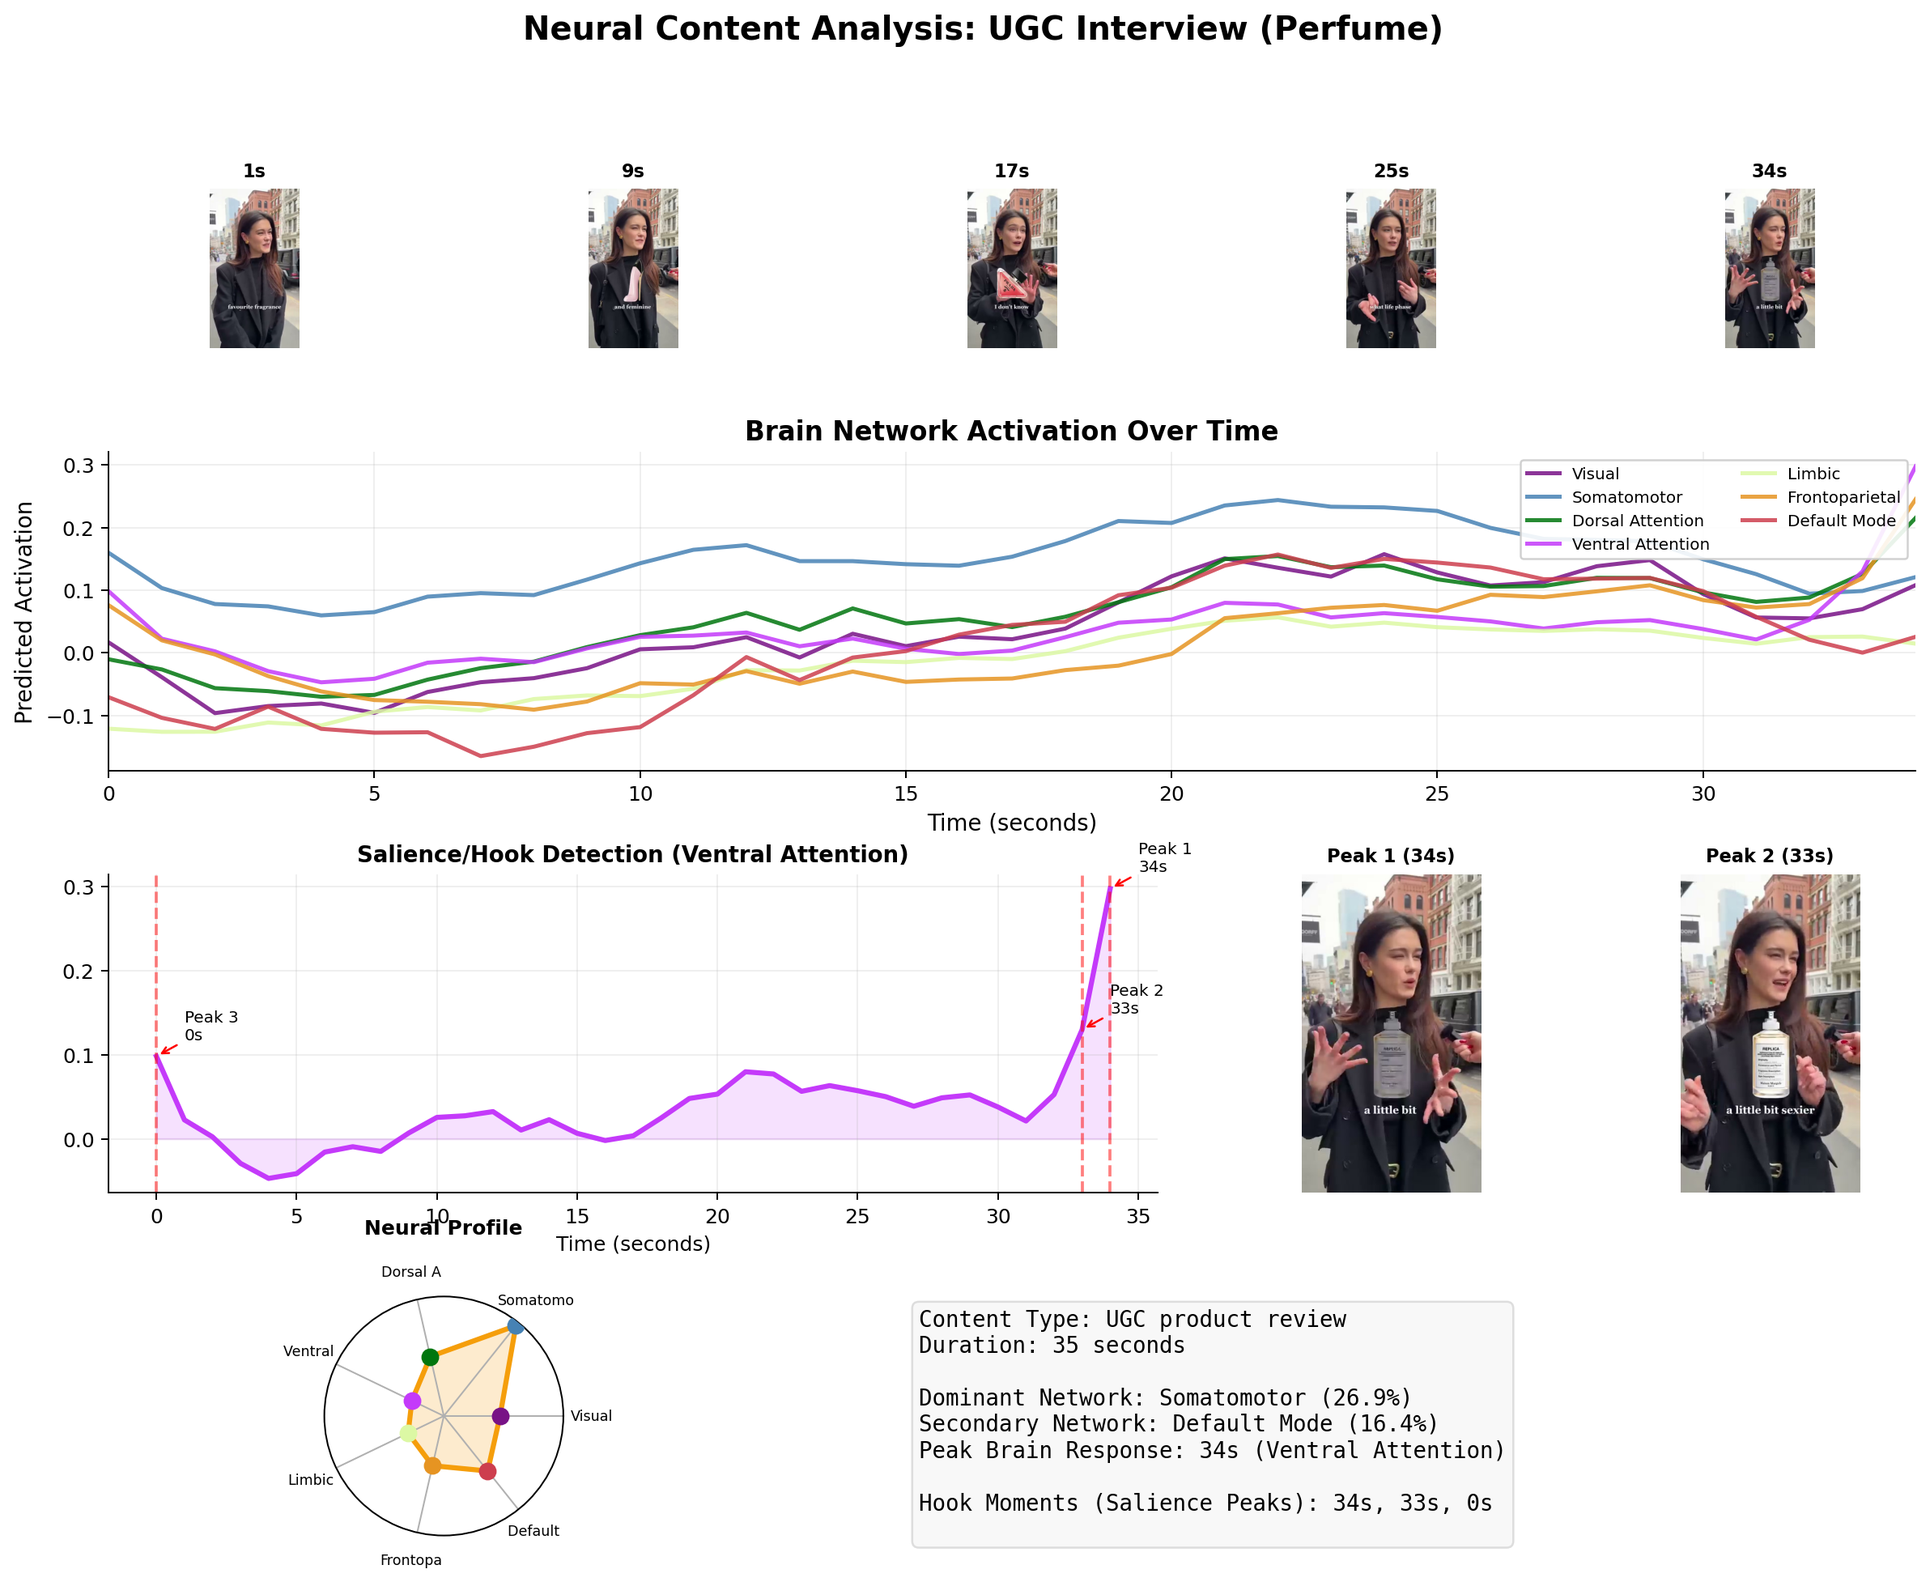
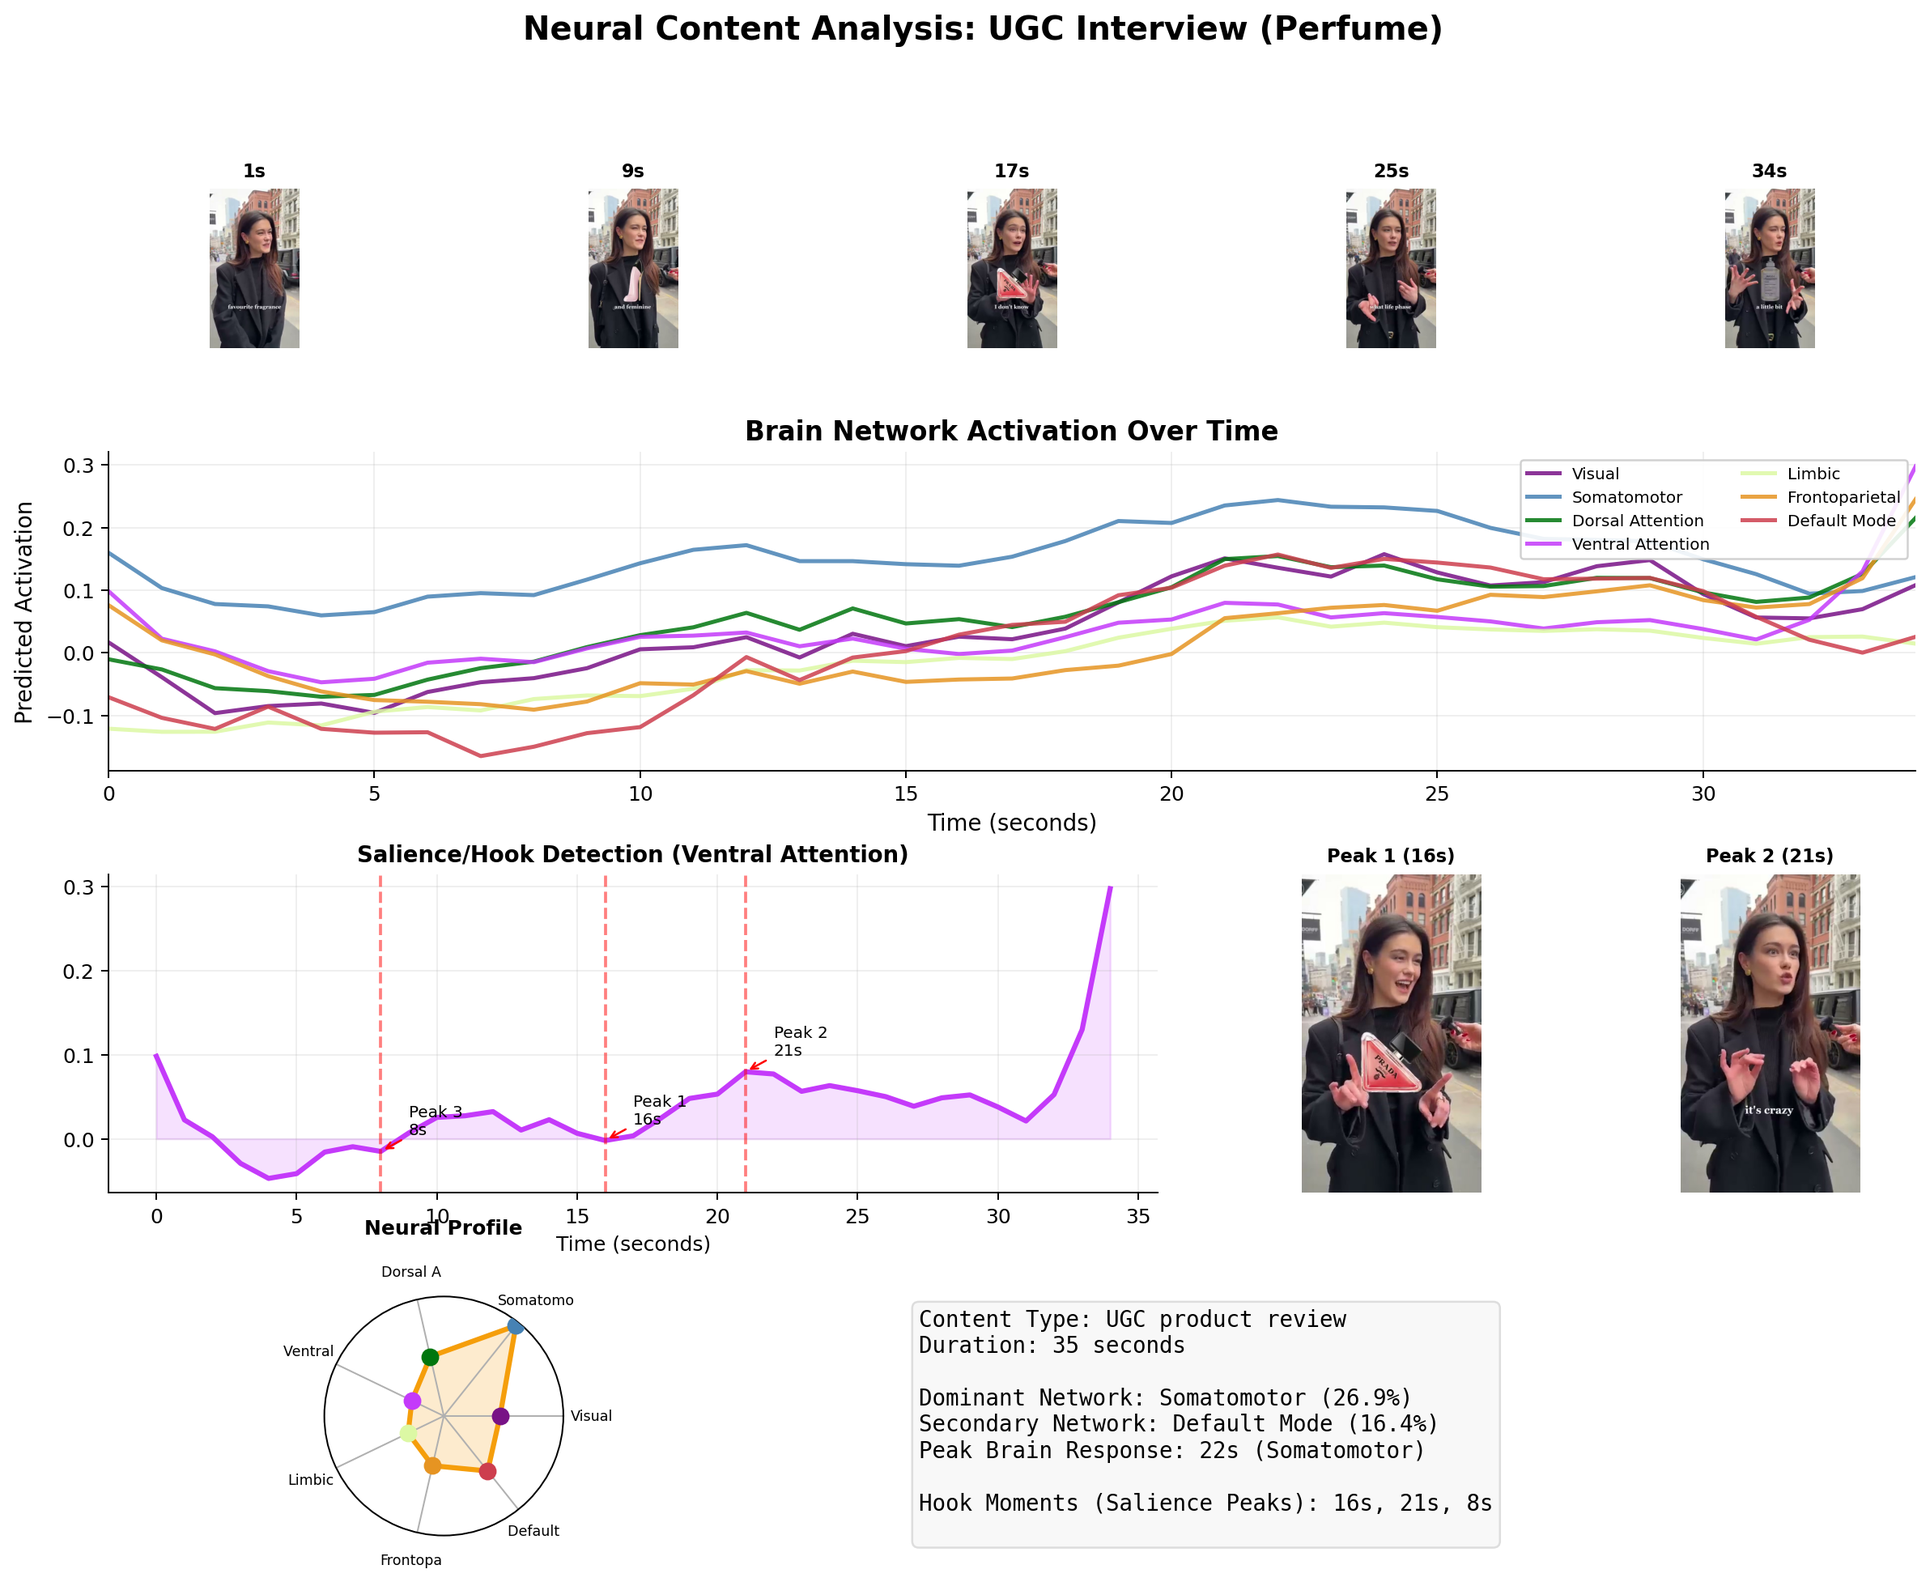
Regenerate figures and update paper with corrected peak timestamps
Validated robust peak detection fix across all 5 videos, regenerated
all figures with detrended peaks, and updated paper narrative/tables
to reflect corrected salience peak values.

diff --git a/paper/neural_content_intelligence.md b/paper/neural_content_intelligence.md
@@ -273,7 +273,7 @@ Full deep-analysis outputs for all five videos are available (Figures 4-6 presen
 *Figure S1: Full NCI analysis of the Elon AI tech news commentary (60s). Similar Somatomotor + Default Mode profile to business education, but with notably elevated Frontoparietal activation (16%), indicating viewers are critically evaluating claims. The mid-video salience peak at 29s suggests a structural break point useful for CTA placement.*
 
 ![Deep analysis of Perfume UGC street interview.](figures/analysis_PerfumeUGCInterview.png)
-*Figure S2: Full NCI analysis of the perfume UGC street interview (35s). Highest Somatomotor activation (27%) of all five videos, reflecting strong embodied/sensory processing. The opening frame triggers a salience peak (0s), confirming the hook works. Elevated Limbic activation (9%) compared to other talking-head content suggests emotional connection to the product.*
+*Figure S2: Full NCI analysis of the perfume UGC street interview (35s). Highest Somatomotor activation (27%) of all five videos, reflecting strong embodied/sensory processing. Salience peaks are front-to-mid loaded (8s, 16s, 21s), indicating early and sustained engagement. Elevated Limbic activation (9%) compared to other talking-head content suggests emotional connection to the product.*
 
 The radar overlay (Figure 2) reveals two distinct clusters. Videos 1-3 (talking-head formats) share a Somatomotor + Default Mode dominant profile, reflecting speech processing and narrative comprehension. Videos 4-5 (visual formats) share a Visual + Dorsal Attention dominant profile, reflecting sustained visual tracking. Within each cluster, meaningful differences emerge: the tech/AI news video adds Frontoparietal control (critical thinking), the UGC perfume review shows elevated Limbic engagement (emotional connection to the product), and the viral ice cutter video shows the highest Ventral Attention of any video (the "satisfying" surprise signature).
 
@@ -293,12 +293,12 @@ The Leila Hormozi video (49 seconds, talking-head format delivering business adv
 | Frontoparietal | 13% | Moderate --- some evaluative processing of the advice |
 | Default Mode | **18%** | **Co-dominant** --- narrative engagement, self-referential processing |
 
-**Salience peaks (hook moments):** 48s, 47s, 45s --- clustered at the end of the video.
+**Salience peaks (hook moments):** 30s, 14s, 19s --- distributed across the video, with the strongest moment at the midpoint.
 
 ![Deep analysis of Leila Hormozi business education video.](figures/analysis_BusinessEdLeilaHarmozi.png)
-*Figure 4: Full NCI analysis of Leila Hormozi business education video (49s). The network time course reveals sustained Somatomotor activation throughout (speech processing), with Default Mode co-activation indicating narrative engagement. Salience peaks cluster at the end, suggesting the closing argument contains the strongest attention-capture moments.*
+*Figure 4: Full NCI analysis of Leila Hormozi business education video (49s). The network time course reveals sustained Somatomotor activation throughout (speech processing), with Default Mode co-activation indicating narrative engagement. Salience peaks are distributed across the video (14s, 19s, 30s), suggesting multiple attention-capture moments throughout the argument rather than a single climactic endpoint.*
 
-**Business insight for talking-head creators:** The Somatomotor dominance reveals that for this content format, *voice quality, delivery cadence, and facial expressions are the primary engagement drivers*, not visual production value. Creators investing in expensive sets and lighting may be optimizing the wrong variable. The low Visual network activation (15%) confirms that viewers are not visually stimulated; they are processing the speaker's delivery and message. The high Default Mode activation (18%) indicates viewers are deeply processing the narrative content, relating the advice to their own situations, consistent with central-route persuasion processing as described by the ELM [55, 65]. For content strategists, this means talking-head content should be optimized for speaker delivery, argument structure, and personal relevance rather than visual complexity. The end-loaded salience peaks suggest that the strongest hook material is in the closing argument; a short-form editor might consider restructuring to lead with that moment.
+**Business insight for talking-head creators:** The Somatomotor dominance reveals that for this content format, *voice quality, delivery cadence, and facial expressions are the primary engagement drivers*, not visual production value. Creators investing in expensive sets and lighting may be optimizing the wrong variable. The low Visual network activation (15%) confirms that viewers are not visually stimulated; they are processing the speaker's delivery and message. The high Default Mode activation (18%) indicates viewers are deeply processing the narrative content, relating the advice to their own situations, consistent with central-route persuasion processing as described by the ELM [55, 65]. For content strategists, this means talking-head content should be optimized for speaker delivery, argument structure, and personal relevance rather than visual complexity. The distributed salience peaks (14s, 19s, 30s) suggest multiple hook moments throughout the argument; a short-form editor could use any of these as an opening hook when restructuring for different platforms.
 
 ### 6.4 Deep Analysis: Product Demonstration (Sanitary Pad)
 
@@ -316,7 +316,7 @@ The product demonstration video (25 seconds, showing a sanitary pad's absorption
 | Frontoparietal | 5% | Very low --- not evaluative; purely demonstrative |
 | Default Mode | 6% | Very low --- no narrative or self-referential processing |
 
-**Salience peaks (hook moments):** 24s, 17s, 21s --- distributed across the demonstration.
+**Salience peaks (hook moments):** 10s, 17s, 7s --- front-loaded, with the strongest moments in the first half of the demonstration.
 
 ![Deep analysis of sanitary pad product demonstration video.](figures/analysis_sanitaryPadProductDemo.png)
 *Figure 5: Full NCI analysis of the product demonstration video (25s). The neural profile is radically different from talking-head content: Visual + Dorsal Attention account for 63% of total activation. The viewer's brain is locked into focused visual tracking of the product demonstration, with minimal narrative, emotional, or evaluative processing. This is pure "show don't tell" engagement.*
@@ -339,12 +339,12 @@ The Japanese ice cutter video (48 seconds, showing the mesmerizing process of ha
 | Frontoparietal | 11% | Low-moderate --- some evaluative engagement |
 | Default Mode | 5% | Very low --- no narrative processing |
 
-**Salience peaks (hook moments):** 21s, 19s, 14s --- clustered in the middle of the video, not the opening.
+**Salience peaks (hook moments):** 21s, 40s, 32s --- distributed across the video, with strong moments in both mid and late sections.
 
 ![Deep analysis of viral Japanese ice cutter satisfying content.](figures/analysis_viralJapaneseIceCutter.png)
-*Figure 6: Full NCI analysis of the viral Japanese ice cutter video (48s). The highest Ventral Attention activation (17%) of any video in the analysis reveals the neural basis of "satisfying" content: repeated surprise/salience peaks that create an addictive watch-through quality. Hook moments cluster in the middle (14-21s), not the opening, suggesting the content builds anticipation rather than front-loading its strongest moments.*
+*Figure 6: Full NCI analysis of the viral Japanese ice cutter video (48s). The highest Ventral Attention activation (17%) of any video in the analysis reveals the neural basis of "satisfying" content: repeated surprise/salience peaks that create an addictive watch-through quality. Hook moments are distributed across the video (21s, 32s, 40s), suggesting the content sustains salience throughout rather than front-loading its strongest moments.*
 
-**Business insight for viral/organic content creators:** The Ventral Attention activation (17%) is the *highest of all five videos* and reveals the neural mechanism behind "satisfying" content's addictive quality. Ventral Attention is the brain's surprise/salience detection system, it fires when something unexpected or particularly salient occurs. The combination of strong Visual processing, sustained Dorsal Attention, and repeated Ventral Attention peaks creates a neurally compelling viewing loop: the viewer is visually engaged, attentionally locked in, and repeatedly surprised. The near-absence of Limbic (2%) and Default Mode (5%) activation is equally revealing, this content does not work through emotional connection or narrative transportation. It is *purely perceptual engagement*. For content strategists, this means "satisfying" content optimization should focus entirely on visual rhythm, timing of reveals, and the frequency and intensity of surprise moments. The mid-video clustering of salience peaks (14-21s) rather than front-loading suggests that this content format builds anticipation, creating an escalating sense of satisfaction. A creator editing this type of content should ensure the visual payoff moments are properly spaced to maintain the salience-peak rhythm.
+**Business insight for viral/organic content creators:** The Ventral Attention activation (17%) is the *highest of all five videos* and reveals the neural mechanism behind "satisfying" content's addictive quality. Ventral Attention is the brain's surprise/salience detection system, it fires when something unexpected or particularly salient occurs. The combination of strong Visual processing, sustained Dorsal Attention, and repeated Ventral Attention peaks creates a neurally compelling viewing loop: the viewer is visually engaged, attentionally locked in, and repeatedly surprised. The near-absence of Limbic (2%) and Default Mode (5%) activation is equally revealing, this content does not work through emotional connection or narrative transportation. It is *purely perceptual engagement*. For content strategists, this means "satisfying" content optimization should focus entirely on visual rhythm, timing of reveals, and the frequency and intensity of surprise moments. The distributed salience peaks (21s, 32s, 40s) suggest that this content format sustains engagement through well-spaced visual payoff moments, creating an escalating sense of satisfaction. A creator editing this type of content should ensure the visual payoff moments are properly spaced to maintain the salience-peak rhythm.
 
 ### 6.6 Comparative Insights for Content Strategy
 
@@ -352,11 +352,11 @@ Table 2 summarizes the neural profiles and strategic implications of all five vi
 
 | Video | Duration | Dominant Networks | Hook Moments | Optimization Target | Content Strategy |
 |---|---|---|---|---|---|
-| **Leila Hormozi** (Business Ed.) | 49s | Somatomotor 25% + Default Mode 18% | 48s, 47s, 45s (end-loaded) | Speaker delivery, argument structure, personal relevance | Optimize voice, cadence, facial expression; lead with strongest argument |
-| **Elon AI** (Tech News) | 60s | Somatomotor 22% + Default Mode 19% + Frontoparietal 16% | 59s, 58s, 29s (end + mid) | Information density, argument quality, critical engagement | Leverage high Frontoparietal for CTA placement; the 29s mid-video peak suggests a structural break point |
-| **Perfume UGC** (Product Review) | 35s | Somatomotor 27% + Default Mode 16% | 34s, 33s, 0s (end + opening) | Embodied/sensory experience, authentic delivery | Highest Somatomotor = strongest embodied response; opening hook works (0s peak); optimize for sensory language |
-| **Sanitary Pad** (Product Demo) | 25s | Dorsal Attention 32% + Visual 31% | 24s, 17s, 21s (distributed) | Visual clarity, demonstration pacing, proof moments | Pure "show don't tell"; add verbal/text CTA bridge after visual proof |
-| **Ice Cutter** (Viral Satisfying) | 48s | Visual 28% + Dorsal Attention 27% + Ventral Attention 17% | 21s, 19s, 14s (mid-video) | Visual rhythm, surprise timing, reveal pacing | Optimize salience-peak frequency; content builds anticipation, don't front-load |
+| **Leila Hormozi** (Business Ed.) | 49s | Somatomotor 25% + Default Mode 18% | 30s, 14s, 19s (distributed) | Speaker delivery, argument structure, personal relevance | Optimize voice, cadence, facial expression; multiple hook moments available for re-editing |
+| **Elon AI** (Tech News) | 60s | Somatomotor 22% + Default Mode 19% + Frontoparietal 16% | 29s, 43s, 13s (distributed) | Information density, argument quality, critical engagement | Leverage high Frontoparietal for CTA placement; the 29s mid-video peak suggests a structural break point |
+| **Perfume UGC** (Product Review) | 35s | Somatomotor 27% + Default Mode 16% | 16s, 21s, 8s (front-to-mid) | Embodied/sensory experience, authentic delivery | Highest Somatomotor = strongest embodied response; early peaks suggest strong opening engagement; optimize for sensory language |
+| **Sanitary Pad** (Product Demo) | 25s | Dorsal Attention 32% + Visual 31% | 10s, 17s, 7s (front-loaded) | Visual clarity, demonstration pacing, proof moments | Pure "show don't tell"; early salience peaks suggest viewers engage most with initial demonstration setup |
+| **Ice Cutter** (Viral Satisfying) | 48s | Visual 28% + Dorsal Attention 27% + Ventral Attention 17% | 21s, 40s, 32s (mid-to-late) | Visual rhythm, surprise timing, reveal pacing | Optimize salience-peak frequency; content sustains engagement through well-spaced payoff moments |
 
 *Table 2: Neural engagement profiles and strategic implications for five short-form content archetypes. Each content type engages fundamentally different brain systems, requiring different optimization strategies.*
 
@@ -364,7 +364,7 @@ Several cross-cutting insights emerge from this comparative analysis:
 
 **1. Content format determines neural engagement strategy.** The most important finding is that talking-head and visual content engage *qualitatively different* brain systems. This is not a matter of degree, it is a categorical difference. Somatomotor + Default Mode dominance (talking heads) versus Visual + Dorsal Attention dominance (demonstrations/viral) represents two fundamentally different ways content can hold a viewer. Metadata-based optimization tools cannot detect this distinction. NCI can.
 
-**2. Hook timing varies by content type.** The opening-second hook dogma ("you must capture attention in the first second") does not apply uniformly across content types. The UGC perfume review shows a salience peak at 0s (the hook works), but the viral ice cutter's strongest moments are at 14-21s (mid-video). The business education and tech news videos peak at the end. Different formats have different temporal engagement signatures, and NCI reveals where each format's strongest moments actually are.
+**2. Hook timing varies by content type.** The opening-second hook dogma ("you must capture attention in the first second") does not apply uniformly across content types. The product demo and UGC perfume review show front-loaded salience peaks (7-10s and 8-16s respectively), while the viral ice cutter's strongest moments are distributed across mid-to-late sections (21s, 32s, 40s). The business education video shows distributed peaks throughout. Different formats have different temporal engagement signatures, and NCI reveals where each format's strongest moments actually are.
 
 **3. The "satisfying" content signature is neurally identifiable.** The ice cutter's uniquely high Ventral Attention activation (17% versus 8-12% for other videos) provides a quantitative neural fingerprint for "satisfying" viral content. Content creators aiming for organic virality can now evaluate whether their content achieves this signature before publishing.
 
